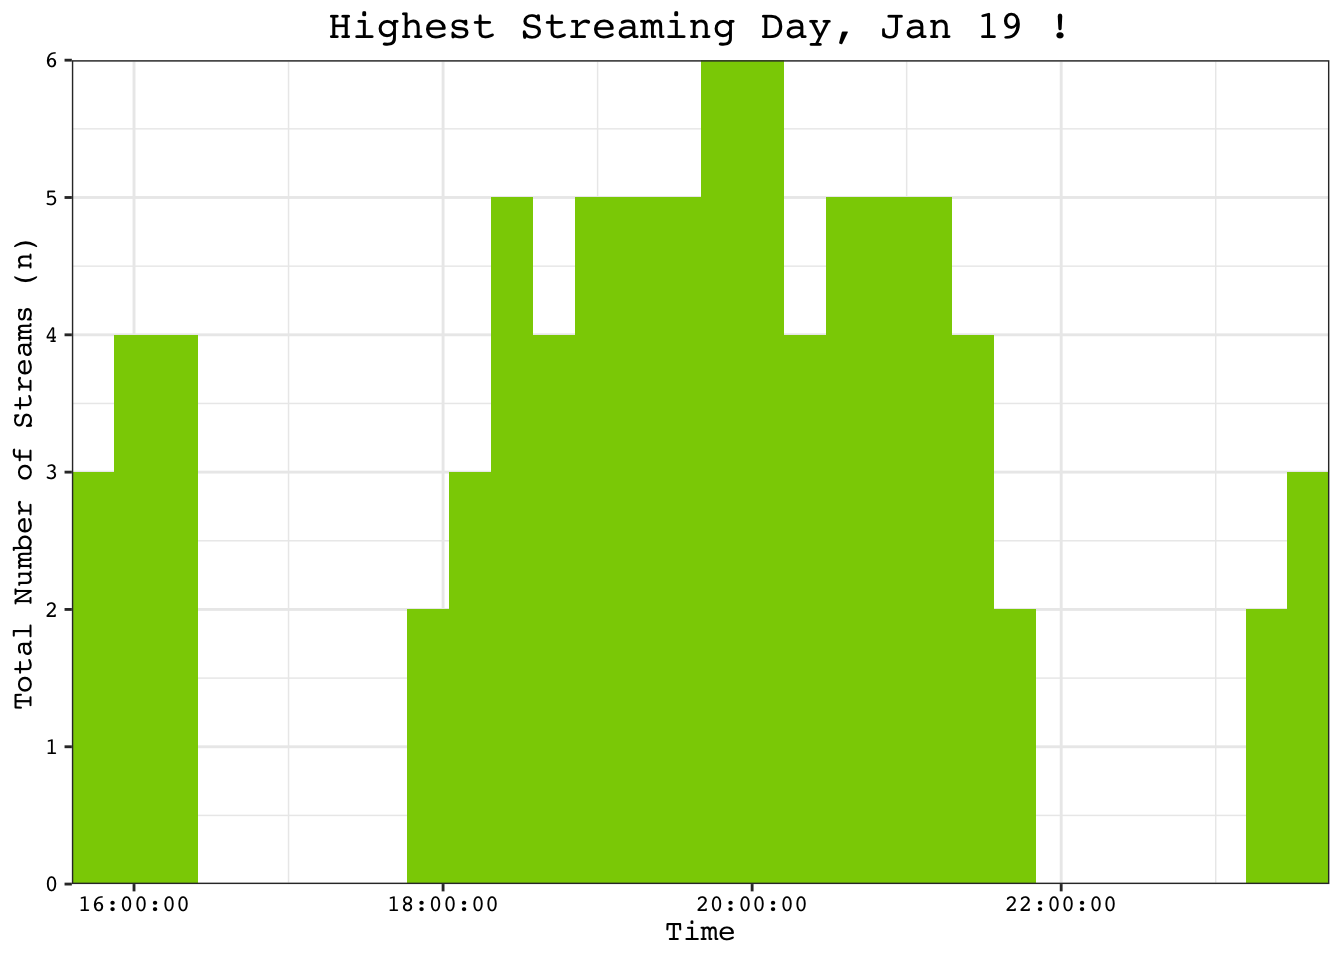
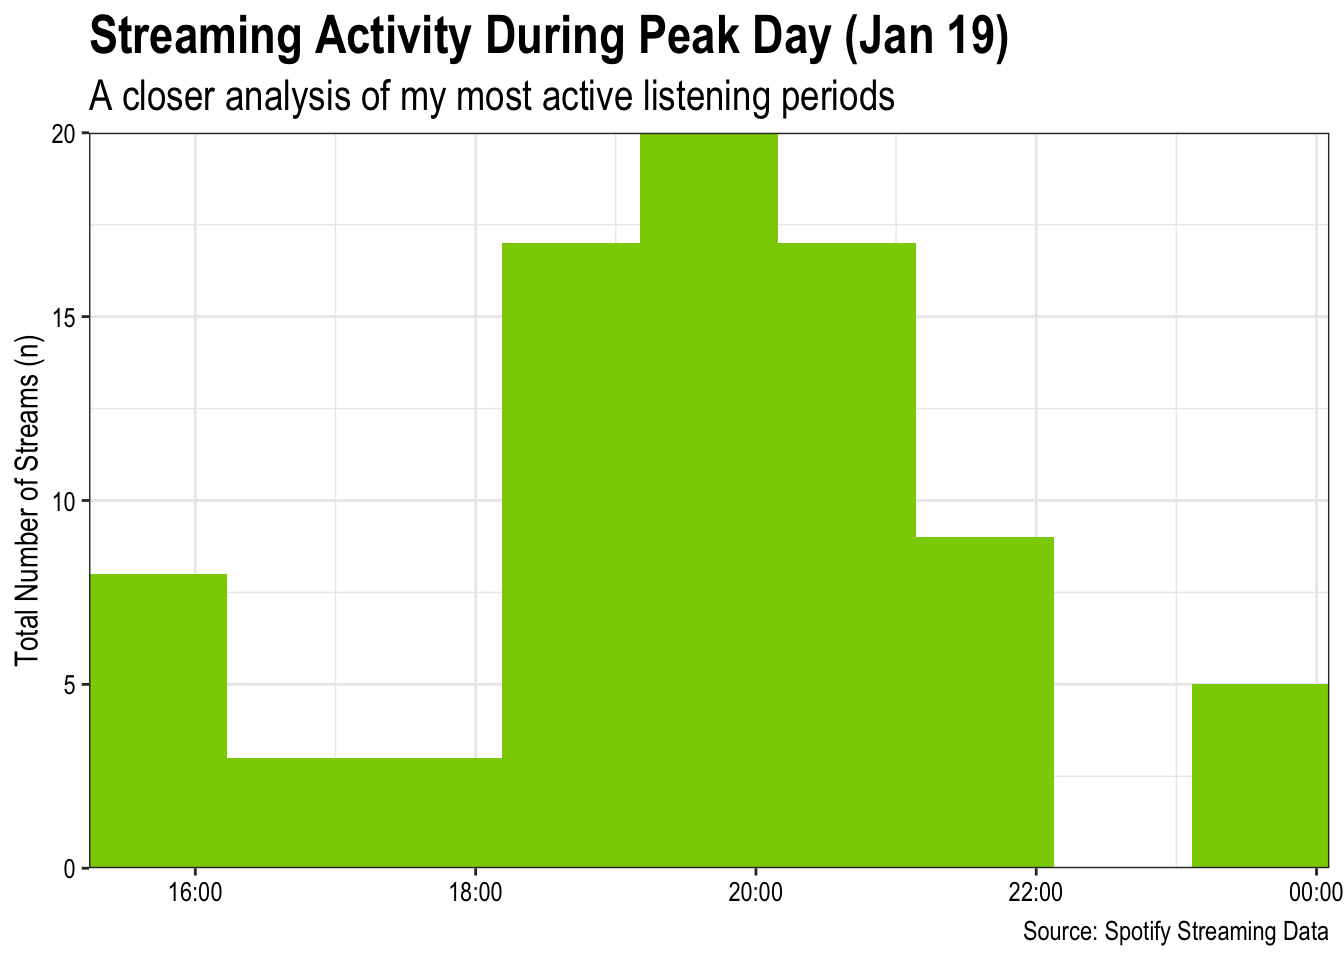
add ggsave

diff --git a/spotify_wrapped.html b/spotify_wrapped.html
@@ -405,17 +405,20 @@ pre > code.sourceCode > span > a:first-child::before { text-decoration: underlin
 <span id="cb22-2"><a href="#cb22-2" aria-hidden="true" tabindex="-1"></a><span class="fu">ggplot</span>(<span class="at">data =</span> daily_songs, <span class="fu">aes</span>(<span class="at">x =</span> ymd_date, <span class="at">y =</span> n_songs)) <span class="sc">+</span></span>
 <span id="cb22-3"><a href="#cb22-3" aria-hidden="true" tabindex="-1"></a>  <span class="fu">geom_point</span>(<span class="at">color =</span> <span class="st">"#8ACE00"</span>) <span class="sc">+</span></span>
 <span id="cb22-4"><a href="#cb22-4" aria-hidden="true" tabindex="-1"></a>  <span class="fu">geom_line</span>(<span class="at">color =</span> <span class="st">"#8ACE00"</span>, <span class="at">linewidth =</span> <span class="dv">1</span>) <span class="sc">+</span></span>
-<span id="cb22-5"><a href="#cb22-5" aria-hidden="true" tabindex="-1"></a>  <span class="fu">geom_star</span>(<span class="at">data =</span> daily_songs[<span class="dv">1</span>, ], <span class="at">fill =</span> <span class="st">"black"</span>, <span class="at">size =</span> <span class="dv">3</span>) <span class="sc">+</span></span>
+<span id="cb22-5"><a href="#cb22-5" aria-hidden="true" tabindex="-1"></a>  <span class="fu">geom_star</span>(<span class="at">data =</span> daily_songs[<span class="dv">1</span>, ], <span class="at">fill =</span> <span class="st">"black"</span>, <span class="at">size =</span> <span class="dv">4</span>) <span class="sc">+</span></span>
 <span id="cb22-6"><a href="#cb22-6" aria-hidden="true" tabindex="-1"></a>  <span class="fu">labs</span>(<span class="at">x =</span> <span class="st">"Date"</span>,</span>
 <span id="cb22-7"><a href="#cb22-7" aria-hidden="true" tabindex="-1"></a>       <span class="at">y =</span> <span class="st">"Total Number of Streams (n)"</span>,</span>
-<span id="cb22-8"><a href="#cb22-8" aria-hidden="true" tabindex="-1"></a>       <span class="at">title =</span> <span class="fu">paste</span>(<span class="st">"Monthly Streaming Habits for"</span>, monthly_datasets[[i]]<span class="sc">$</span>month, <span class="st">"!"</span>)) <span class="sc">+</span></span>
-<span id="cb22-9"><a href="#cb22-9" aria-hidden="true" tabindex="-1"></a>  <span class="fu">scale_x_date</span>(<span class="at">expand =</span> <span class="fu">c</span>(<span class="dv">0</span>, <span class="dv">0</span>), <span class="at">date_breaks =</span> <span class="st">"3 days"</span>, <span class="at">date_labels =</span> <span class="st">"%b %d"</span>) <span class="sc">+</span> </span>
-<span id="cb22-10"><a href="#cb22-10" aria-hidden="true" tabindex="-1"></a>  <span class="fu">theme_bw</span>() <span class="sc">+</span></span>
-<span id="cb22-11"><a href="#cb22-11" aria-hidden="true" tabindex="-1"></a>  <span class="fu">theme</span>(<span class="at">axis.text.x =</span> <span class="fu">element_text</span>(<span class="at">family =</span> <span class="st">"Courier"</span>, <span class="at">color =</span> <span class="st">"black"</span>),  </span>
-<span id="cb22-12"><a href="#cb22-12" aria-hidden="true" tabindex="-1"></a>        <span class="at">axis.text.y =</span> <span class="fu">element_text</span>(<span class="at">family =</span> <span class="st">"Courier"</span>, <span class="at">color =</span> <span class="st">"black"</span>),</span>
-<span id="cb22-13"><a href="#cb22-13" aria-hidden="true" tabindex="-1"></a>        <span class="at">axis.title.x =</span> <span class="fu">element_text</span>(<span class="at">family =</span> <span class="st">"Courier"</span>),</span>
-<span id="cb22-14"><a href="#cb22-14" aria-hidden="true" tabindex="-1"></a>        <span class="at">axis.title.y =</span> <span class="fu">element_text</span>(<span class="at">family =</span> <span class="st">"Courier"</span>),</span>
-<span id="cb22-15"><a href="#cb22-15" aria-hidden="true" tabindex="-1"></a>        <span class="at">plot.title =</span> <span class="fu">element_text</span>(<span class="at">family =</span> <span class="st">"Courier"</span>, <span class="at">size =</span> <span class="dv">15</span>, <span class="at">hjust =</span> <span class="fl">0.5</span>))</span></code><button title="Copy to Clipboard" class="code-copy-button"><i class="bi"></i></button></pre></div>
+<span id="cb22-8"><a href="#cb22-8" aria-hidden="true" tabindex="-1"></a>       <span class="at">title =</span> <span class="fu">paste</span>(<span class="st">"Monthly Streaming Habits for"</span>, monthly_datasets[[i]]<span class="sc">$</span>month),</span>
+<span id="cb22-9"><a href="#cb22-9" aria-hidden="true" tabindex="-1"></a>       <span class="at">subtitle =</span> <span class="st">"Tracking daily streaming activity trends"</span>,</span>
+<span id="cb22-10"><a href="#cb22-10" aria-hidden="true" tabindex="-1"></a>       <span class="at">caption =</span> <span class="st">"Source: Spotify Streaming Data"</span>) <span class="sc">+</span></span>
+<span id="cb22-11"><a href="#cb22-11" aria-hidden="true" tabindex="-1"></a>  <span class="fu">scale_x_date</span>(<span class="at">expand =</span> <span class="fu">c</span>(<span class="dv">0</span>, <span class="fl">0.05</span>), <span class="at">date_breaks =</span> <span class="st">"3 days"</span>, <span class="at">date_labels =</span> <span class="st">"%b %d"</span>) <span class="sc">+</span> </span>
+<span id="cb22-12"><a href="#cb22-12" aria-hidden="true" tabindex="-1"></a>  <span class="fu">theme_bw</span>(<span class="at">base_family =</span> <span class="st">"Arial Narrow"</span>) <span class="sc">+</span></span>
+<span id="cb22-13"><a href="#cb22-13" aria-hidden="true" tabindex="-1"></a>  <span class="fu">theme</span>(<span class="at">axis.text =</span> <span class="fu">element_text</span>(<span class="at">color =</span> <span class="st">"black"</span>, <span class="at">size =</span> <span class="dv">10</span>),  </span>
+<span id="cb22-14"><a href="#cb22-14" aria-hidden="true" tabindex="-1"></a>        <span class="at">axis.title =</span> <span class="fu">element_text</span>(<span class="at">color =</span> <span class="st">"black"</span>, <span class="at">size =</span> <span class="dv">12</span>),</span>
+<span id="cb22-15"><a href="#cb22-15" aria-hidden="true" tabindex="-1"></a>        <span class="at">axis.title.x =</span> <span class="fu">element_blank</span>(),</span>
+<span id="cb22-16"><a href="#cb22-16" aria-hidden="true" tabindex="-1"></a>        <span class="at">plot.title =</span> <span class="fu">element_text</span>(<span class="at">size =</span> <span class="dv">20</span>, <span class="at">face =</span> <span class="st">"bold"</span>),</span>
+<span id="cb22-17"><a href="#cb22-17" aria-hidden="true" tabindex="-1"></a>        <span class="at">plot.subtitle =</span> <span class="fu">element_text</span>(<span class="at">color =</span> <span class="st">"black"</span>, <span class="at">size =</span> <span class="dv">16</span>),</span>
+<span id="cb22-18"><a href="#cb22-18" aria-hidden="true" tabindex="-1"></a>        <span class="at">plot.caption =</span> <span class="fu">element_text</span>(<span class="at">color =</span> <span class="st">"black"</span>, <span class="at">size =</span> <span class="dv">10</span>))</span></code><button title="Copy to Clipboard" class="code-copy-button"><i class="bi"></i></button></pre></div>
 </details>
 <div class="cell-output-display">
 <div>
@@ -433,18 +436,22 @@ pre > code.sourceCode > span > a:first-child::before { text-decoration: underlin
 <span id="cb23-3"><a href="#cb23-3" aria-hidden="true" tabindex="-1"></a></span>
 <span id="cb23-4"><a href="#cb23-4" aria-hidden="true" tabindex="-1"></a><span class="co"># Create a histogram of streaming times for the highest streaming day </span></span>
 <span id="cb23-5"><a href="#cb23-5" aria-hidden="true" tabindex="-1"></a><span class="fu">ggplot</span>(<span class="at">data =</span> highest_streaming_day, <span class="fu">aes</span>(<span class="at">x =</span> time)) <span class="sc">+</span></span>
-<span id="cb23-6"><a href="#cb23-6" aria-hidden="true" tabindex="-1"></a>  <span class="fu">geom_histogram</span>(<span class="at">bins =</span> <span class="dv">30</span>, <span class="at">fill =</span> <span class="st">"#8ACE00"</span>) <span class="sc">+</span></span>
+<span id="cb23-6"><a href="#cb23-6" aria-hidden="true" tabindex="-1"></a>  <span class="fu">geom_histogram</span>(<span class="at">bins =</span> <span class="dv">9</span>, <span class="at">fill =</span> <span class="st">"#8ACE00"</span>) <span class="sc">+</span></span>
 <span id="cb23-7"><a href="#cb23-7" aria-hidden="true" tabindex="-1"></a>  <span class="fu">labs</span>(<span class="at">x =</span> <span class="st">"Time"</span>,</span>
 <span id="cb23-8"><a href="#cb23-8" aria-hidden="true" tabindex="-1"></a>       <span class="at">y =</span> <span class="st">"Total Number of Streams (n)"</span>,</span>
-<span id="cb23-9"><a href="#cb23-9" aria-hidden="true" tabindex="-1"></a>       <span class="at">title =</span> <span class="fu">paste</span>(<span class="st">"Highest Streaming Day,"</span>, daily_songs<span class="sc">$</span>md_date[<span class="dv">1</span>], <span class="st">"!"</span>)) <span class="sc">+</span></span>
-<span id="cb23-10"><a href="#cb23-10" aria-hidden="true" tabindex="-1"></a>  <span class="fu">scale_x_time</span>(<span class="at">expand =</span> <span class="fu">c</span>(<span class="dv">0</span>, <span class="dv">0</span>)) <span class="sc">+</span></span>
-<span id="cb23-11"><a href="#cb23-11" aria-hidden="true" tabindex="-1"></a>  <span class="fu">scale_y_continuous</span>(<span class="at">expand =</span> <span class="fu">c</span>(<span class="dv">0</span>, <span class="dv">0</span>)) <span class="sc">+</span></span>
-<span id="cb23-12"><a href="#cb23-12" aria-hidden="true" tabindex="-1"></a>  <span class="fu">theme_bw</span>() <span class="sc">+</span></span>
-<span id="cb23-13"><a href="#cb23-13" aria-hidden="true" tabindex="-1"></a>  <span class="fu">theme</span>(<span class="at">axis.text.x =</span> <span class="fu">element_text</span>(<span class="at">family =</span> <span class="st">"Courier"</span>, <span class="at">color =</span> <span class="st">"black"</span>),  </span>
-<span id="cb23-14"><a href="#cb23-14" aria-hidden="true" tabindex="-1"></a>        <span class="at">axis.text.y =</span> <span class="fu">element_text</span>(<span class="at">family =</span> <span class="st">"Courier"</span>, <span class="at">color =</span> <span class="st">"black"</span>),</span>
-<span id="cb23-15"><a href="#cb23-15" aria-hidden="true" tabindex="-1"></a>        <span class="at">axis.title.x =</span> <span class="fu">element_text</span>(<span class="at">family =</span> <span class="st">"Courier"</span>),</span>
-<span id="cb23-16"><a href="#cb23-16" aria-hidden="true" tabindex="-1"></a>        <span class="at">axis.title.y =</span> <span class="fu">element_text</span>(<span class="at">family =</span> <span class="st">"Courier"</span>),</span>
-<span id="cb23-17"><a href="#cb23-17" aria-hidden="true" tabindex="-1"></a>        <span class="at">plot.title =</span> <span class="fu">element_text</span>(<span class="at">family =</span> <span class="st">"Courier"</span>, <span class="at">size =</span> <span class="dv">15</span>, <span class="at">hjust =</span> <span class="fl">0.5</span>))</span></code><button title="Copy to Clipboard" class="code-copy-button"><i class="bi"></i></button></pre></div>
+<span id="cb23-9"><a href="#cb23-9" aria-hidden="true" tabindex="-1"></a>       <span class="at">title =</span> <span class="fu">paste0</span>(<span class="st">"Streaming Activity During Peak Day ("</span>, daily_songs<span class="sc">$</span>md_date[<span class="dv">1</span>], <span class="st">")"</span>),</span>
+<span id="cb23-10"><a href="#cb23-10" aria-hidden="true" tabindex="-1"></a>       <span class="at">subtitle =</span> <span class="st">"A closer analysis of my most active listening periods"</span>,</span>
+<span id="cb23-11"><a href="#cb23-11" aria-hidden="true" tabindex="-1"></a>       <span class="at">caption =</span> <span class="st">"Source: Spotify Streaming Data"</span>) <span class="sc">+</span></span>
+<span id="cb23-12"><a href="#cb23-12" aria-hidden="true" tabindex="-1"></a>  <span class="fu">scale_x_time</span>(<span class="at">expand =</span> <span class="fu">c</span>(<span class="dv">0</span>, <span class="dv">0</span>),</span>
+<span id="cb23-13"><a href="#cb23-13" aria-hidden="true" tabindex="-1"></a>               <span class="at">labels =</span> scales<span class="sc">::</span><span class="fu">time_format</span>(<span class="st">"%H:%M"</span>)) <span class="sc">+</span></span>
+<span id="cb23-14"><a href="#cb23-14" aria-hidden="true" tabindex="-1"></a>  <span class="fu">scale_y_continuous</span>(<span class="at">expand =</span> <span class="fu">c</span>(<span class="dv">0</span>, <span class="dv">0</span>)) <span class="sc">+</span></span>
+<span id="cb23-15"><a href="#cb23-15" aria-hidden="true" tabindex="-1"></a>  <span class="fu">theme_bw</span>(<span class="at">base_family =</span> <span class="st">"Arial Narrow"</span>) <span class="sc">+</span></span>
+<span id="cb23-16"><a href="#cb23-16" aria-hidden="true" tabindex="-1"></a>  <span class="fu">theme</span>(<span class="at">axis.text =</span> <span class="fu">element_text</span>(<span class="at">color =</span> <span class="st">"black"</span>, <span class="at">size =</span> <span class="dv">10</span>),  </span>
+<span id="cb23-17"><a href="#cb23-17" aria-hidden="true" tabindex="-1"></a>        <span class="at">axis.title =</span> <span class="fu">element_text</span>(<span class="at">color =</span> <span class="st">"black"</span>, <span class="at">size =</span> <span class="dv">12</span>),</span>
+<span id="cb23-18"><a href="#cb23-18" aria-hidden="true" tabindex="-1"></a>        <span class="at">axis.title.x =</span> <span class="fu">element_blank</span>(),</span>
+<span id="cb23-19"><a href="#cb23-19" aria-hidden="true" tabindex="-1"></a>        <span class="at">plot.title =</span> <span class="fu">element_text</span>(<span class="at">size =</span> <span class="dv">20</span>, <span class="at">face =</span> <span class="st">"bold"</span>),</span>
+<span id="cb23-20"><a href="#cb23-20" aria-hidden="true" tabindex="-1"></a>        <span class="at">plot.subtitle =</span> <span class="fu">element_text</span>(<span class="at">color =</span> <span class="st">"black"</span>, <span class="at">size =</span> <span class="dv">16</span>),</span>
+<span id="cb23-21"><a href="#cb23-21" aria-hidden="true" tabindex="-1"></a>        <span class="at">plot.caption =</span> <span class="fu">element_text</span>(<span class="at">color =</span> <span class="st">"black"</span>, <span class="at">size =</span> <span class="dv">10</span>))</span></code><button title="Copy to Clipboard" class="code-copy-button"><i class="bi"></i></button></pre></div>
 </details>
 <div class="cell-output-display">
 <div>
